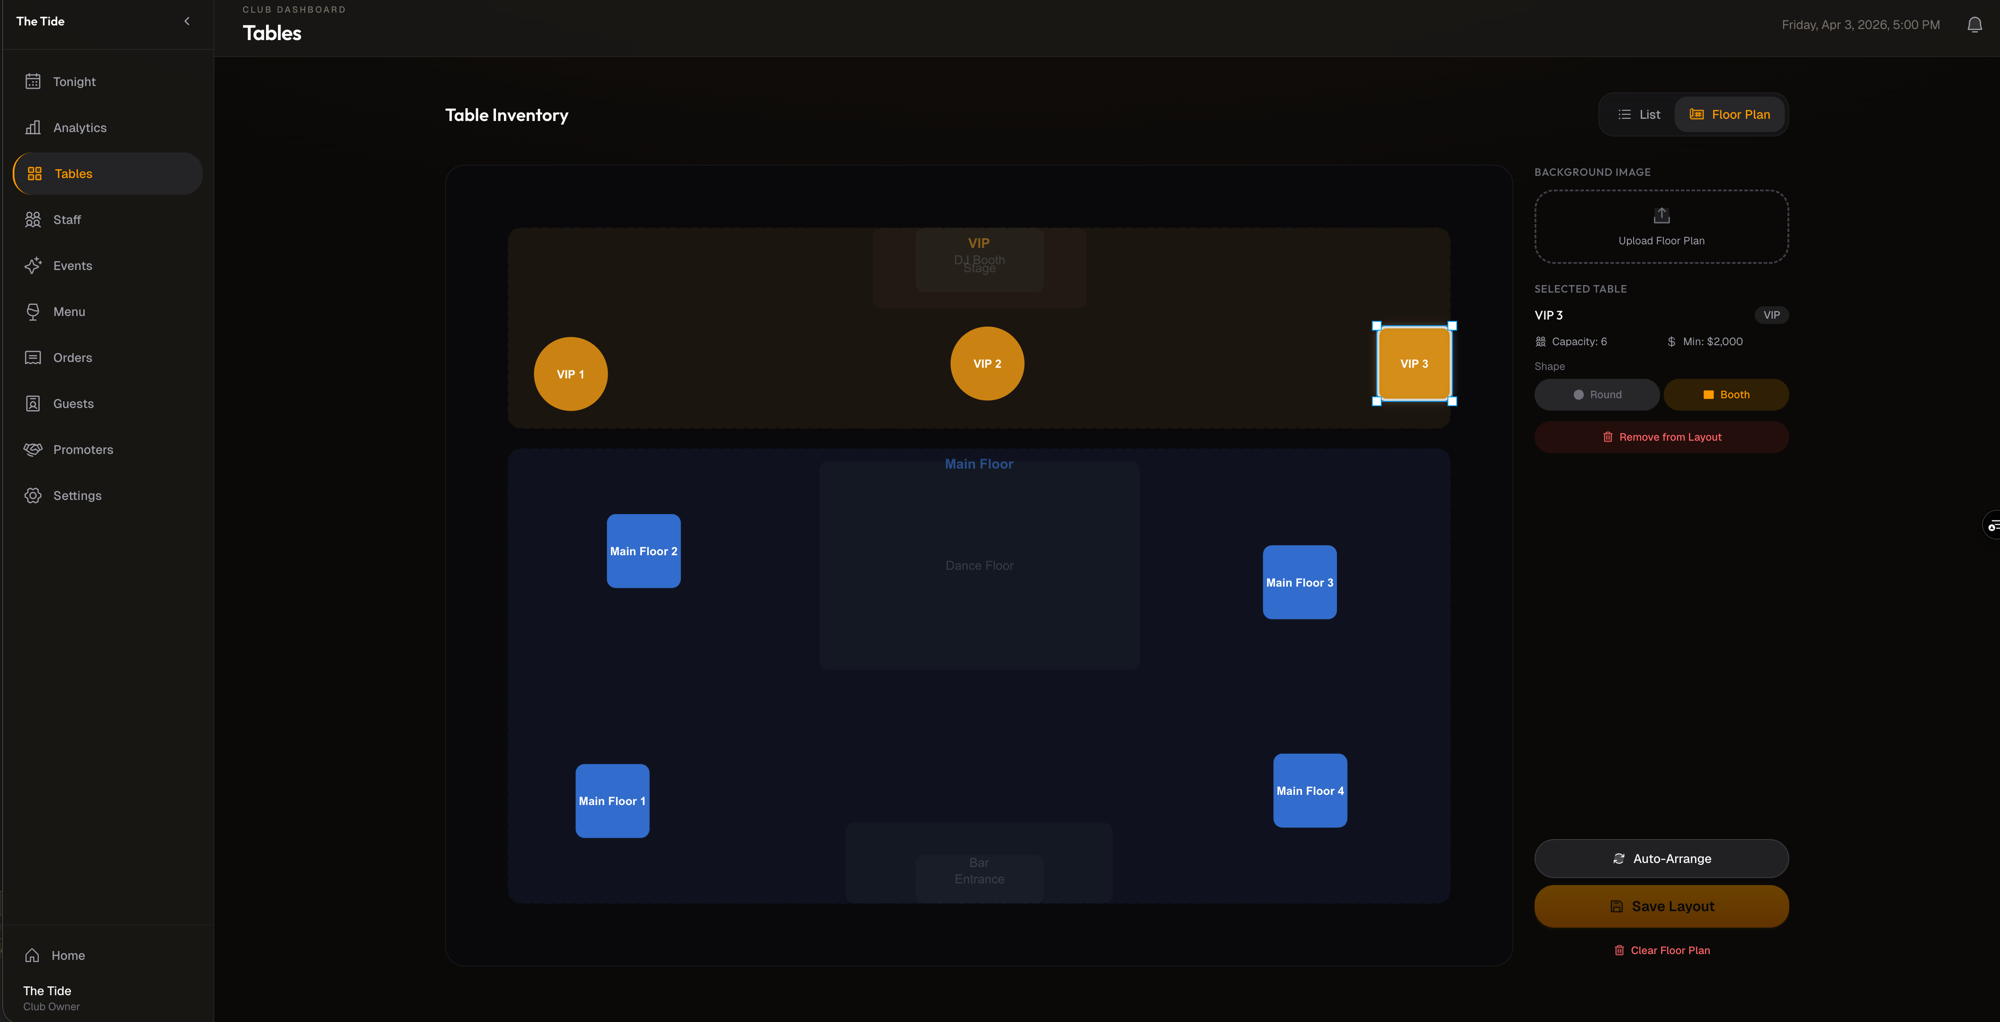
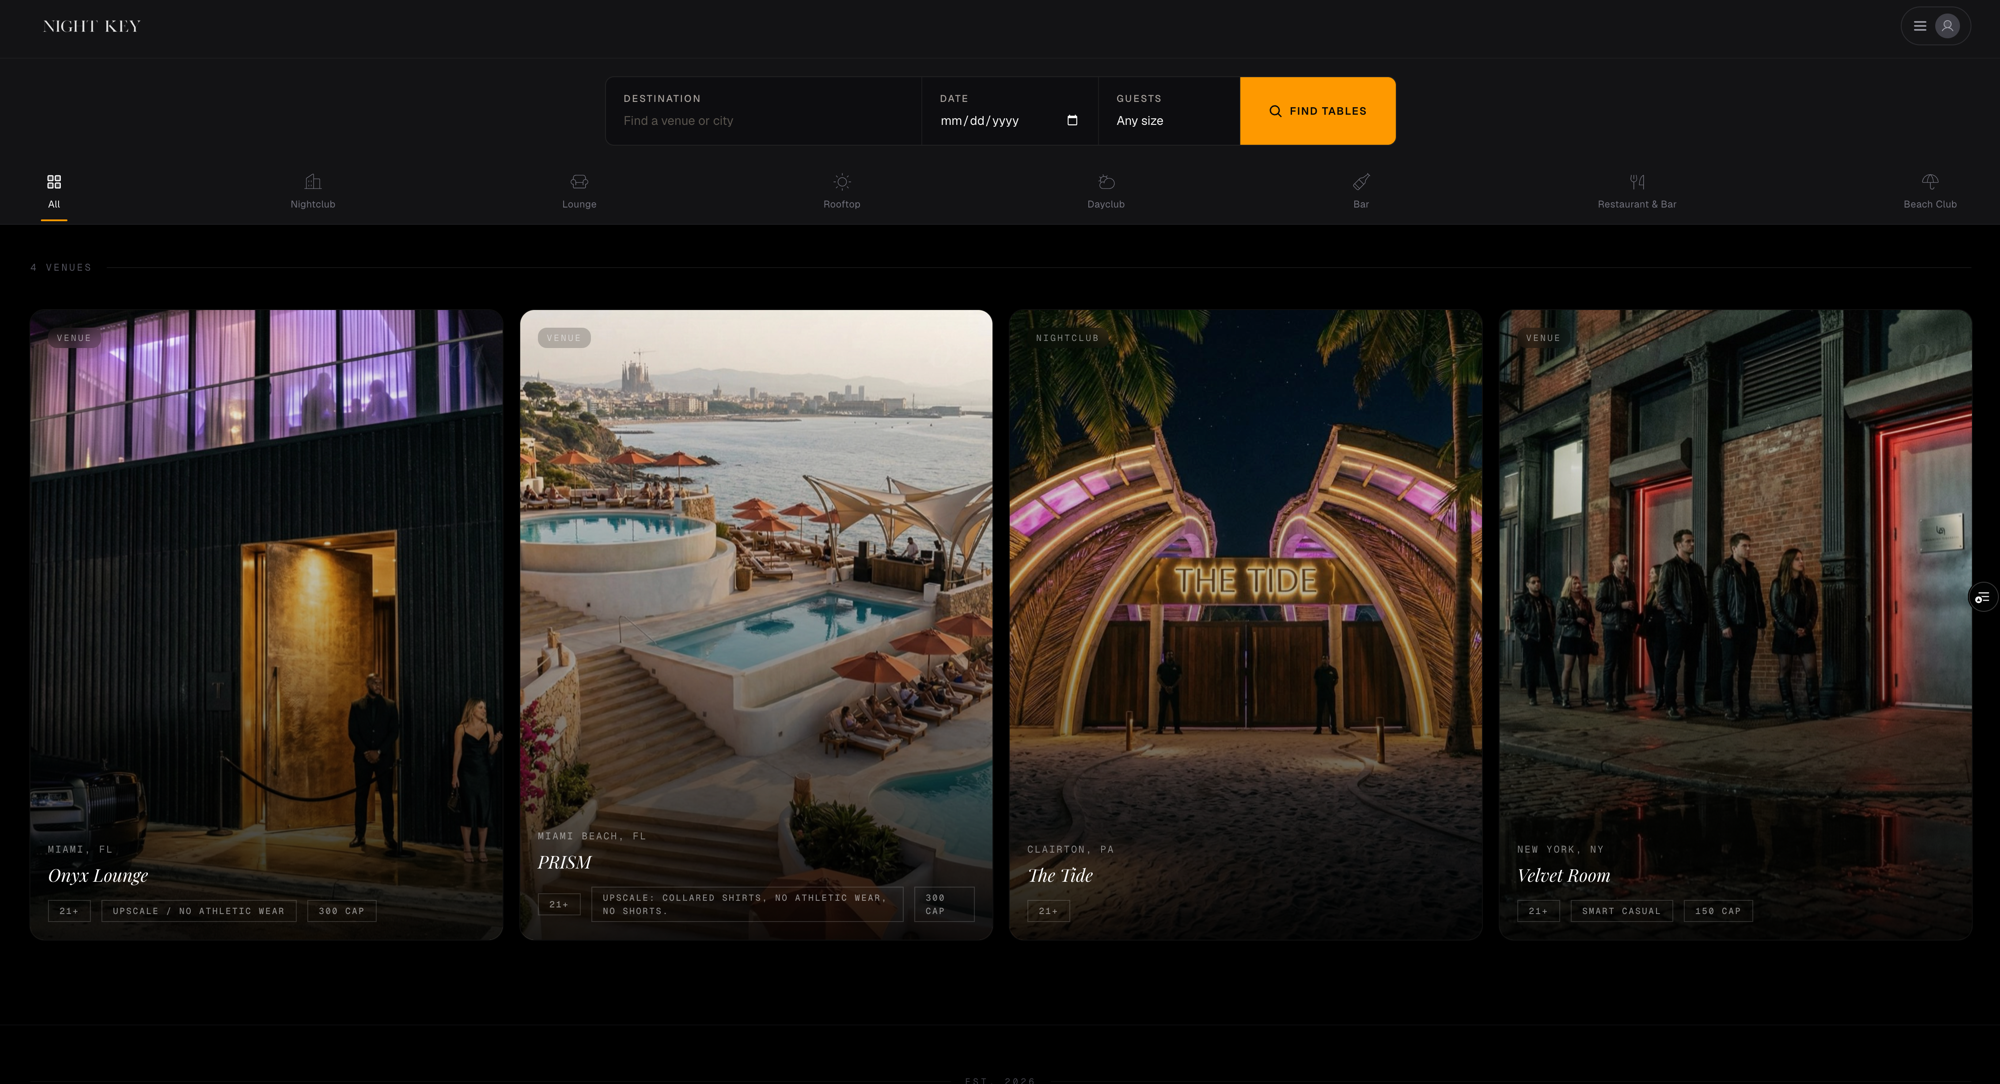
feat(nightkey): swap hero to homepage venue grid
Replace the floor-plan hero with the public homepage showing the
four-venue grid and search bar. Keep the floor-plan as a gallery
shot so the marketplace surface and the operator tool both appear
on the detail page.

diff --git a/lib/projects.ts b/lib/projects.ts
@@ -410,7 +410,7 @@ export const projects: Project[] = [
       { slug: 'nightkey-floor-plan', title: 'Floor Plan & Bookings' }
     ],
     image: '/projects/nightkey.png',
-    images: ['/projects/nightkey.png', '/projects/nightkey-menu.png'],
+    images: ['/projects/nightkey.png', '/projects/nightkey-floor-plan.png', '/projects/nightkey-menu.png'],
     gradient: 'from-amber-500 to-orange-600',
     problemStatement: 'Nightclubs run on spreadsheets, group chats, and improvised cash splits. Guests can\'t reliably book a table, promoters can\'t prove the heads they brought, and operators can\'t see their floor in real time. Nightkey is the operating layer that ties guests, promoters, hosts, and venues together — with payments, bookings, and accountability built in.',
     metrics: [
